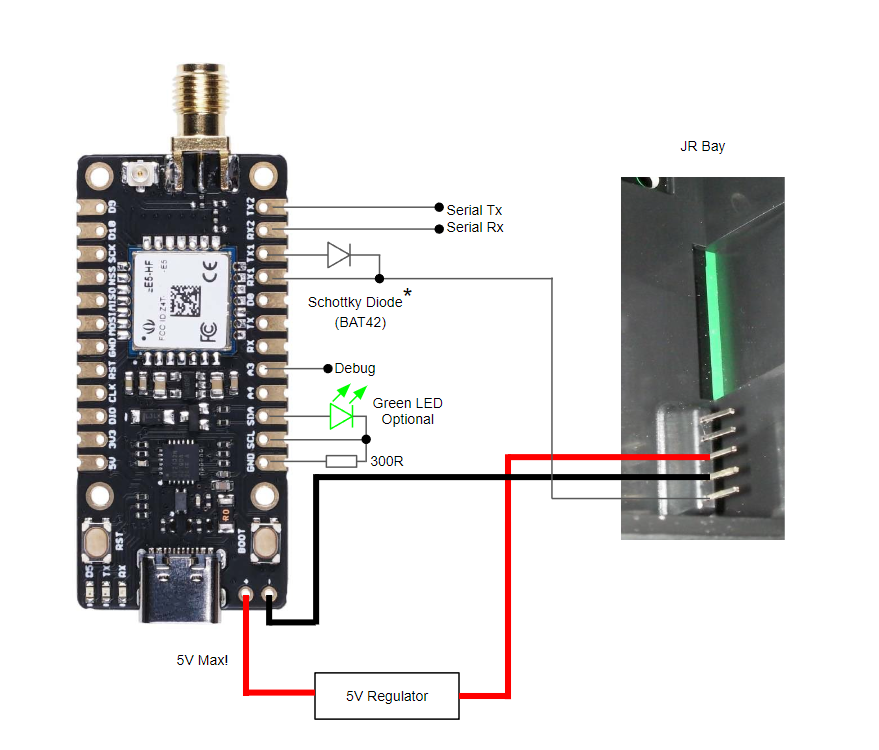
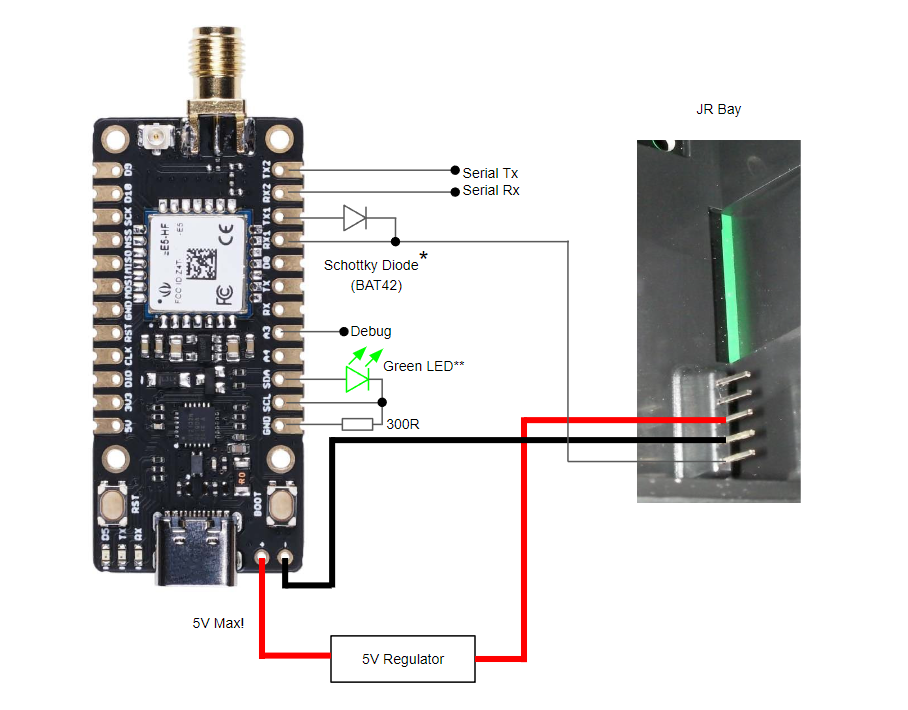
update

Changed region(s): [[0.0614, 0.031, 0.8908, 0.9296], [0.3379, 0.8986, 0.5222, 0.9606]]

diff --git a/docs/SEEEDSTUDIO_WIO_E5.md b/docs/SEEEDSTUDIO_WIO_E5.md
@@ -40,8 +40,7 @@ Connections (name in respect to board print-ons):
 - in: Rx1
 - com/cli: Tx,Rx and on-board USB plug
 - debug: A3
-- led green: SDA (solder a green LED with resistor > 300 Ohm to GND, you can use pad SCL as intermediate post)
-  - Note: The green LED is optional.  It can be enabled with a custom firmware build by removing #define DEVICE_HAS_SINGLE_LED in the hal.
+- led green: none (see note below)
 - led red: on-board
 - bind button: BOOT button, hold for 4 seconds to initiate bind mode
 
@@ -49,7 +48,9 @@ Example Wiring using JR bay with CRSF:
 
 <img src="images/E5_Mini_Tx_Wiring.png" width="600px">
 
-*The Schottky diode between the TX1 and RX1 pins is not needed with the default firmware. If you are having communication issues between the radio and the Tx module then you can install the Schottky diode and use the 'sdiode' firmware ('sdiode' will be included in the file name, e.g. tx-Wio-E5-Mini-wle5jc-**sdiode**-vX.X.XX.hex).  
+*The Schottky diode between the TX1 and RX1 pins is not needed with the default firmware. If you are having communication issues between the radio and the Tx module then you can install the Schottky diode and use the 'sdiode' firmware ('sdiode' will be included in the file name, e.g. tx-Wio-E5-Mini-wle5jc-**sdiode**-vX.X.XX.hex).
+
+**The green LED and resistor is optional. It can be enabled with a custom firmware build by removing #define DEVICE_HAS_SINGLE_LED in the hal.  
 
 ### As Receiver ###
 
@@ -58,14 +59,15 @@ Connections (name in respect to board print-ons):
 - serial: Tx2,Rx2
 - out: Tx1
 - debug: Tx, and on-board USB plug
-- led green: SDA (solder a green LED with resistor > 300 Ohm to GND, you can use pad SCL as intermediate post)
-  - Note: The green LED is optional.  It can be enabled with a custom firmware build by removing #define DEVICE_HAS_SINGLE_LED in the hal.
+- led green: none (see note below)
 - led red: on-board
 - bind button: BOOT button, hold for 4 seconds to initiate bind mode
 
 Example Wiring:
 
 <img src="images/E5_Mini_Rx_Wiring.png" width="800px">
+
+*The green LED and resistor is optional. It can be enabled with a custom firmware build by removing #define DEVICE_HAS_SINGLE_LED in the hal.
 
 ## SeeedStudio Grove Wio-E5 Board ##
 
